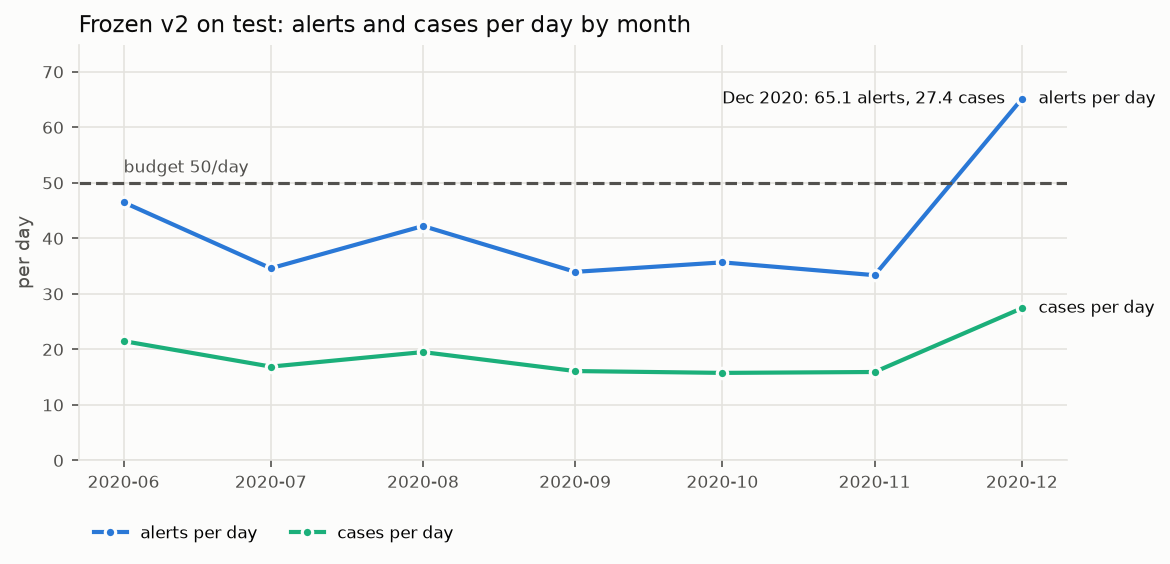
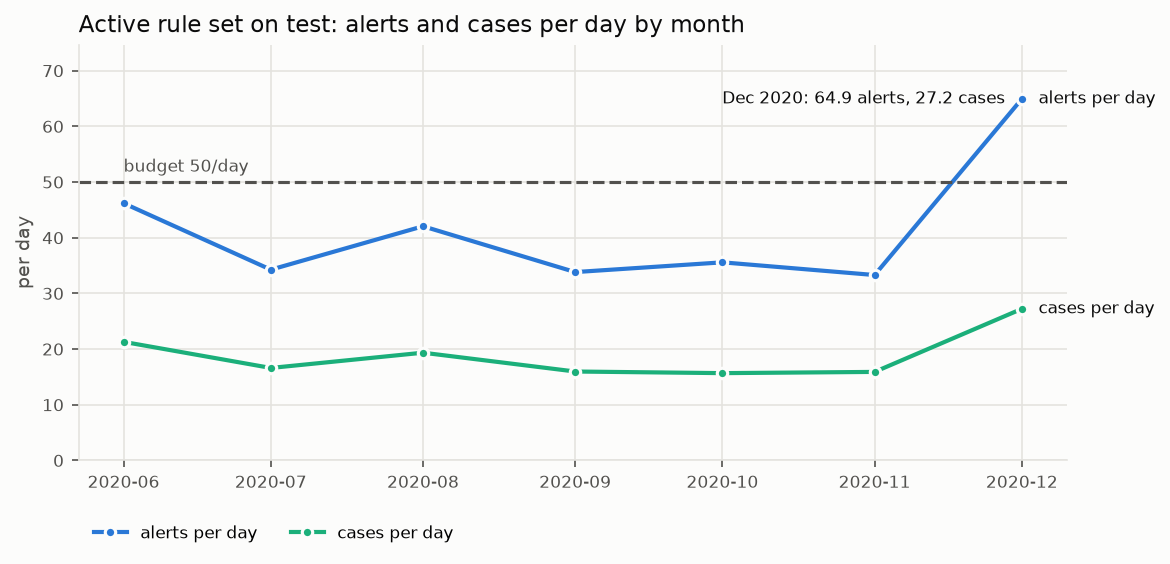
Move R6 to shadow (rule set v2.1)

diff --git a/src/make_figures.py b/src/make_figures.py
@@ -250,7 +250,7 @@ def pvt_rule_comparison():
                 handles.append(h)
                 labels.append(l)
     fig.legend(handles, labels, loc="upper right", ncol=3)
-    fig.suptitle("Frozen v2 rules: train vs test", x=0.01, ha="left", color=TEXT, fontsize=12)
+    fig.suptitle("Active rule set: train vs test", x=0.01, ha="left", color=TEXT, fontsize=12)
     fig.tight_layout(rect=(0, 0, 1, 0.9))
     save(fig, "pvt_train_vs_test.png")
 
@@ -260,10 +260,10 @@ def main():
     r4_by_category()
     r5_precision()
     candidate_sets()
-    monthly_budget("train", "v2 active rule set on train: alerts and cases per day by month", "tuning_monthly_alerts_train.png")
+    monthly_budget("train", "Active rule set on train: alerts and cases per day by month", "tuning_monthly_alerts_train.png")
     if (OUTPUT_DIR / "pvt" / "pvt_rule_comparison.csv").exists():
         pvt_rule_comparison()
-        monthly_budget("test", "Frozen v2 on test: alerts and cases per day by month", "pvt_monthly_alerts_test.png")
+        monthly_budget("test", "Active rule set on test: alerts and cases per day by month", "pvt_monthly_alerts_test.png")
 
 
 if __name__ == "__main__":

diff --git a/reports/rule_register.md b/reports/rule_register.md
@@ -8,21 +8,28 @@ is in [CHANGELOG.md](../CHANGELOG.md).
   (2020-06-21 to 2020-12-31, 194 days, 2,145 fraud), frozen set `rules-v2`; see
   [pvt_report.md](pvt_report.md).
 - **Tuning evidence:** in [tuning_report.md](tuning_report.md).
-- **Owner:** the project author. Approval: [TBD] (maker/checker sign-off in Phase 4).
+- **Owner:** the project author (maker).
+- **Approvals:**
+  - Rule sets v1 and v2: self-reviewed (before the review process).
+  - Rule set v2.1 and later: checker is "self-review against the PR checklist, with required CI checks; solo project".
 
-**Rule set v2:** approved and frozen on 2026-11-17. The previous rule set (R1 to R7 at
-v1.0/v1.1, before tuning) can be reproduced from git tag `rules-v1.1`.
+**Current rule set: v2.1** (2026-11-17, branch `change/r6-shadow`). Change from v2: R6
+status active to shadow; R6 logic unchanged at 2.0. Change request:
+`.github/pull_request_template.md` format, approval as above.
+- **Rule set v2:** approved and frozen on 2026-11-17 (git tag `rules-v2`); validated on the
+  test period.
+- **Rule set v1.1:** before tuning; can be reproduced from git tag `rules-v1.1`.
 
-| Rule | Frozen version (set v2) | Status |
-|---|---|---|
-| R1 | 1.1 | retired |
-| R2 | 1.0 | retired |
-| R3 | 2.0 | active |
-| R4 | 2.0 | active |
-| R5 | 1.0 | retired |
-| R6 | 2.0 | active |
-| R7 | 2.0 | active |
-| R8 | 1.0 (risk list v1) | shadow |
+| Rule | Version | Status in v2 | Status in v2.1 |
+|---|---|---|---|
+| R1 | 1.1 | retired | retired |
+| R2 | 1.0 | retired | retired |
+| R3 | 2.0 | active | active |
+| R4 | 2.0 | active | active |
+| R5 | 1.0 | retired | retired |
+| R6 | 2.0 | active | **shadow** |
+| R7 | 2.0 | active | active |
+| R8 | 1.0 (risk list v1) | shadow | shadow |
 
 ## Summary (train)
 
@@ -33,10 +40,11 @@ v1.0/v1.1, before tuning) can be reproduced from git tag `rules-v1.1`.
 | R3 | 2.0 | Active | HOLD_CONFIRM | 8.78 | 63.37% | 39.82% | 68.38% | 16 | UAT-R3-01 to 08 |
 | R4 | 2.0 | Active | ALERT | 20.76 | 46.70% | 69.37% | 93.31% | 1,213 | UAT-R4-01 to 08 |
 | R5 | 1.0 | Retired | ALERT | 563.97 | 0.58% | 23.27% | 23.60% | 271 | UAT-R5-01 to 03 |
-| R6 | 2.0 | Active | STEP_UP | 6.09 | 42.21% | 18.40% | 32.37% | 0 | UAT-R6-01 to 05 |
+| R6 | 2.0 | Shadow (v2.1) | STEP_UP | 6.09 | 42.21% | 18.40% | 32.37% | 0 | UAT-R6-01 to 05 |
 | R7 | 2.0 | Active | HOLD_CONFIRM | 23.60 | 33.01% | 55.74% | 63.91% | 1,093 | UAT-R7-01 to 10 |
 | R8 | 1.0 | Shadow | BLOCK / HOLD_CONFIRM by tier | not scored on train (in-sample) | | | | | UAT-R8-01 to 04 |
 | Active set | v2 | | | 37.80 | 31.40% | 84.92% | 98.04% | | |
+| Active set | v2.1 (R3, R4, R7) | | | 37.36 | 31.77% | 84.92% | 98.04% | | |
 
 - **Unique fraud:** for an active rule, fraud no other active rule catches. For a retired
   rule, fraud it would add if reinstated.
@@ -49,17 +57,18 @@ v1.0/v1.1, before tuning) can be reproduced from git tag `rules-v1.1`.
 |---|---|---|---|---|---|---|
 | R3 | Active | 8.21 | 53.77% (53.51%) | 39.91% | 68.95% | Pass |
 | R4 | Active | 20.49 | 36.83% (36.83%) | 68.25% | 93.13% | Pass |
-| R6 | Active | 2.10 | 37.10% (32.71%) | 7.04% | 12.70% | Fail on purpose: sets first response for 0 of 215 cards; shadow recommended |
+| R6 | Active in v2; shadow in v2.1 | 2.10 | 37.10% (32.71%) | 7.04% | 12.70% | Fail on purpose: sets first response for 0 of 215 cards; moved to shadow in v2.1 |
 | R7 | Active | 26.55 | 23.18% (24.70%) | 55.66% | 64.35% | Pass, watch genuine alert rate |
 | R8 | Shadow | 31.66 | 1.12% | 3.22% | 5.97% | Do not promote |
-| Active set | | 41.20 (18.78 cases) | 22.21% (23.35%) | 82.75% | 97.41% | Pass |
+| Active set v2 | | 41.20 (18.78 cases) | 22.21% (23.35%) | 82.75% | 97.41% | Pass |
+| Active set v2.1 | | 41.02 (18.63 cases) | 22.30% | 82.75% | 97.41% | Impact estimate, not out-of-sample validation |
 
 "Expected from base rate" is the precision the rule would show on test if it kept its train
 recall and its train genuine alert rate (test fraud rate 0.386% against 0.579%).
 
 ## R1 Card velocity: retired
 - **Version:** 1.1 (status retired in rule set v2, 2026-11-17)
-- **Status / owner / date:** retired 2026-11-17 (rule set v2). Owner: project author (maker). Approved by: [TBD] (checker).
+- **Status / owner / date:** retired 2026-11-17 (rule set v2). Owner: project author (maker). Approved by: self-reviewed (before the review process), rule set v2.
 - **UAT cases:** UAT-R1-01 to R1-08.
 - **Performance, train:** 1.11 alerts/day, 21.61% precision, 1.72% recall, 2.11% value detection.
 - **Performance, test (PVT):** 1.95 alerts/day, 7.41% precision, 1.31% recall, 1.75% value detection (monitoring only).
@@ -85,7 +94,7 @@ recall and its train genuine alert rate (test fraud rate 0.386% against 0.579%).
 
 ## R2 Amount spike: retired
 - **Version:** 1.0 (status retired in rule set v2)
-- **Status / owner / date:** retired 2026-11-17 (rule set v2). Owner: project author (maker). Approved by: [TBD] (checker).
+- **Status / owner / date:** retired 2026-11-17 (rule set v2). Owner: project author (maker). Approved by: self-reviewed (before the review process), rule set v2.
 - **UAT cases:** UAT-R2-01 to R2-04.
 - **Performance, train:** 51.91 alerts/day, 9.36% precision, 34.75% recall, 55.73% value detection.
 - **Performance, test (PVT):** 58.11 alerts/day, 6.74% precision, 35.43% recall, 57.56% value detection (monitoring only).
@@ -102,7 +111,7 @@ recall and its train genuine alert rate (test fraud rate 0.386% against 0.579%).
 
 ## R3 Late-night high value: active
 - **Version:** 2.0 (2026-11-17)
-- **Status / owner / date:** active since 2026-11-17 (rule set v2). Owner: project author (maker). Approved by: [TBD] (checker).
+- **Status / owner / date:** active since 2026-11-17 (rule set v2). Owner: project author (maker). Approved by: self-reviewed (before the review process), rule set v2.
 - **UAT cases:** UAT-R3-01 to R3-08.
 - **Performance, train:** 8.78 alerts/day, 63.37% precision, 39.82% recall, 68.38% value detection.
 - **Performance, test (PVT):** 8.21 alerts/day, 53.77% precision (53.51% expected from base rate), 39.91% recall, 68.95% value detection.
@@ -125,7 +134,7 @@ recall and its train genuine alert rate (test fraud rate 0.386% against 0.579%).
 
 ## R4 Risky category + amount: active
 - **Version:** 2.0 (2026-11-17)
-- **Status / owner / date:** active since 2026-11-17 (rule set v2). Owner: project author (maker). Approved by: [TBD] (checker).
+- **Status / owner / date:** active since 2026-11-17 (rule set v2). Owner: project author (maker). Approved by: self-reviewed (before the review process), rule set v2.
 - **UAT cases:** UAT-R4-01 to R4-08.
 - **Performance, train:** 20.76 alerts/day, 46.70% precision, 69.37% recall, 93.31% value detection.
 - **Performance, test (PVT):** 20.49 alerts/day, 36.83% precision (36.83% expected), 68.25% recall, 93.13% value detection.
@@ -146,7 +155,7 @@ recall and its train genuine alert rate (test fraud rate 0.386% against 0.579%).
 
 ## R5 Distance anomaly: retired
 - **Version:** 1.0 (status retired in rule set v2)
-- **Status / owner / date:** retired 2026-11-17 (rule set v2). Owner: project author (maker). Approved by: [TBD] (checker).
+- **Status / owner / date:** retired 2026-11-17 (rule set v2). Owner: project author (maker). Approved by: self-reviewed (before the review process), rule set v2.
 - **UAT cases:** UAT-R5-01 to R5-03.
 - **Performance, train:** 563.97 alerts/day, 0.58% precision, 23.27% recall, 23.60% value detection.
 - **Performance, test (PVT):** 669.22 alerts/day, 0.38% precision, 23.08% recall, 21.89% value detection (monitoring only).
@@ -161,9 +170,9 @@ recall and its train genuine alert rate (test fraud rate 0.386% against 0.579%).
   - Net benefit is -$572,954.10 at its v1 setting.
 - **Fields:** lat, long, merch_lat, merch_long (cardholder location is sensitive).
 
-## R6 New merchant + high amount: active
+## R6 New merchant + high amount: shadow
 - **Version:** 2.0 (2026-11-17)
-- **Status / owner / date:** active since 2026-11-17 (rule set v2); change request to shadow drafted (v2.1). Owner: project author (maker). Approved by: [TBD] (checker).
+- **Status / owner / date:** shadow since 2026-11-17 (rule set v2.1; active in v2). Owner: project author (maker). v2 approved by: self-reviewed (before the review process), rule set v2. v2.1 status change checker: self-review against the PR checklist, with required CI checks; solo project.
 - **UAT cases:** UAT-R6-01 to R6-05.
 - **Performance, train:** 6.09 alerts/day, 42.21% precision, 18.40% recall, 32.37% value detection; last 3 months of train only: 2.84 alerts/day, 9.54% recall (warm-up effect).
 - **Performance, test (PVT):** 2.10 alerts/day, 37.10% precision (32.71% expected), 7.04% recall, 12.70% value detection.
@@ -188,16 +197,25 @@ recall and its train genuine alert rate (test fraud rate 0.386% against 0.579%).
   - It also fires on the first alerted fraud for 129 cards (17.09%), but that is co-firing:
     another active rule fired on the same transaction every time. It is not counted as
     R6's contribution.
-  - It is the first candidate for shadow at the next review.
+  - **v2.1 (2026-11-17): moved to shadow.**
+    - In PVT it set the first response for 0 of 215 detected cards, so both conditions of
+      the approved rule are met (0 fraud lost; 0.00% of first responses).
+    - On train, its v2 figures were partly a warm-up artifact (9.54% recall in the last 3
+      months of train).
+    - Impact of the change: active set 37.80 to 37.36 alerts per day and 17.21 to 16.79
+      cases per day on train, with 0 fraud lost. Test figures for v2.1 are an impact
+      estimate, not out-of-sample validation.
+    - R6 is still computed and measured as a shadow rule.
 - **Fields:** card_id, merchant, ts, trans_num, amt.
 - **Known gap:** a card's first-ever transaction can't fire (UAT-R6-05).
 - **Version history:**
   - **1.0:** Y = 300.
   - **2.0:** Y = 750.
+  - **Rule set v2.1:** status active to shadow; logic unchanged at 2.0.
 
 ## R7 Spend burst: active
 - **Version:** 2.0 (2026-11-17)
-- **Status / owner / date:** active since 2026-11-17 (rule set v2; watch genuine alert rate). Owner: project author (maker). Approved by: [TBD] (checker).
+- **Status / owner / date:** active since 2026-11-17 (rule set v2; watch genuine alert rate). Owner: project author (maker). Approved by: self-reviewed (before the review process), rule set v2.
 - **UAT cases:** UAT-R7-01 to R7-10.
 - **Performance, train:** 23.60 alerts/day, 33.01% precision, 55.74% recall, 63.91% value detection.
 - **Performance, test (PVT):** 26.55 alerts/day, 23.18% precision (24.70% expected), 55.66% recall, 64.35% value detection.
@@ -226,7 +244,7 @@ recall and its train genuine alert rate (test fraud rate 0.386% against 0.579%).
 
 ## R8 Risk-list hit: shadow
 - **Version:** 1.0 (2026-11-17), list v1
-- **Status / owner / date:** shadow since 2026-11-17 (rule set v2); not promoted after PVT. Owner: project author (maker). Approved by: [TBD] (checker).
+- **Status / owner / date:** shadow since 2026-11-17 (rule set v2); not promoted after PVT. Owner: project author (maker). Approved by: self-reviewed (before the review process), rule set v2.
 - **UAT cases:** UAT-R8-01 to R8-04.
 - **Performance, train:** not scored on train (list built from train labels; in-sample).
 - **Performance, test (PVT):** 31.66 alerts/day, 1.12% precision, 3.22% recall, 5.97% value detection, 0 unique fraud (shadow).

diff --git a/README.md b/README.md
@@ -10,7 +10,9 @@ TxnPulse runs on simulated card data and covers the work of a bank's fraud rules
 It is a rules-first project: every alert comes from a readable IF-ELSE rule with a version,
 an owner, a test suite and a documented reason for its threshold.
 
-Rule set v2 is frozen at git tag `rules-v2`. The previous set is at `rules-v1.1`.
+The current rule set is v2.1: rule set v2 with R6 moved to shadow after validation. Rule
+set v2 is frozen at git tag `rules-v2` and is the version validated on the test period. The
+pre-tuning set is at `rules-v1.1`.
 
 ## 1. Problem
 A fraud operations team can only review a limited number of alerts a day. Rules that catch
@@ -54,14 +56,14 @@ All rules read one table, `txn`, and write one boolean column each to `flags`
 - Baselines exclude the current transaction (R2) or the current day (R7).
 - Same-second transactions are taken in `(ts, trans_num)` order.
 
-| ID | Version | Status | Logic (v2) | Action |
+| ID | Version | Status (set v2.1) | Logic | Action |
 |---|---|---|---|---|
 | R1 | 1.1 | Retired | 5 or more transactions on the card in 60 minutes | ALERT |
 | R2 | 1.0 | Retired | amt > 5 x average of the previous 30 transactions | STEP_UP |
 | R3 | 2.0 | Active | Hour 22:00-03:59 and amt > 600 | HOLD_CONFIRM |
 | R4 | 2.0 | Active | amt > 600 in shopping_net, misc_net, shopping_pos; amt > 250 in grocery_pos | ALERT |
 | R5 | 1.0 | Retired | Cardholder-to-merchant distance > 100 km | ALERT |
-| R6 | 2.0 | Active | First visit to the merchant, 10 or more prior transactions, amt > 750 | STEP_UP |
+| R6 | 2.0 | Shadow (active in v2) | First visit to the merchant, 10 or more prior transactions, amt > 750 | STEP_UP |
 | R7 | 2.0 | Active | 7 or more prior active days and 48-hour spend > 5 x two days of average daily spend | HOLD_CONFIRM |
 | R8 | 1.0 | Shadow | Merchant on risk list v1 (built from train only); scored on test only | BLOCK / HOLD_CONFIRM by tier |
 
@@ -130,7 +132,8 @@ The frozen v2 set was tagged, then run once on the test period with no changes.
 - **R6 decayed.** It relies on first visits to a merchant, which fall from 94.16% of
   transactions in January 2019 to 7.17% in December 2020, as cards build history. Its train
   numbers were partly a warm-up artifact: on the last 3 months of train it already showed
-  9.54% recall, against 7.04% on test. A change request to move it to shadow is drafted.
+  9.54% recall, against 7.04% on test. It was moved to shadow in rule set v2.1 through
+  the pull request process.
 - **R8 is not promoted:** 1.12% precision at 31.66 alerts per day, and 0 fraud that the
   active rules miss.
 - **16 cards appear only in the test period** and carry no history. All 16 were detected,
@@ -138,7 +141,7 @@ The frozen v2 set was tagged, then run once on the test period with no changes.
 
 Report: [reports/pvt_report.md](reports/pvt_report.md).
 
-## 7. Results (active set: R3, R4, R6, R7)
+## 7. Results (rule set v2, active rules R3, R4, R6, R7)
 
 | Metric | Train (tuned on) | Test (frozen, unseen) |
 |---|---|---|
@@ -162,7 +165,17 @@ detection.
 (2020), because transaction volume doubles. They stay under it in cases (32.42 and 27.42
 per day). This is treated as a peak-staffing finding, not a reason to change thresholds.
 
-![Train vs test](reports/figures/pvt_train_vs_test.png)
+**Rule set v2.1 (R6 in shadow):**
+
+| | Alerts per day | Cases per day | Precision | Recall | Value detection |
+|---|---|---|---|---|---|
+| Train | 37.36 | 16.79 | 31.77% | 84.92% | 98.04% |
+| Test | 41.02 | 18.63 | 22.30% | 82.75% | 97.41% |
+
+The test figures for v2.1 are an impact estimate, not out-of-sample validation. The change
+was decided after seeing the test period.
+
+![Train vs test, rule set v2](reports/figures/pvt_train_vs_test_v2.png)
 
 ## 8. Limitations
 - **Simulated data.** Fraud sits in narrow category, hour and amount bands, and its shape

diff --git a/reports/pvt_report.md b/reports/pvt_report.md
@@ -5,7 +5,7 @@
 | Rules | Frozen rule set v2, git tag `rules-v2`. Run unchanged; no threshold was changed after this run. |
 | Test period | fraudTest.csv: 2020-06-21 12:14:25 to 2020-12-31 23:59:34, 194 days, 555,719 transactions, 2,145 fraud (0.386%), $1,133,324.68 of fraud |
 | Training history | Training rows are loaded as unscored history, so card windows continue across the split. Only test rows count in any metric. |
-| Sources | `outputs/test/` from `src/run_rules.py --period test`; `outputs/pvt/pvt_rule_comparison.csv` from `src/compare_pvt.py`; charts from `src/make_figures.py` |
+| Sources | `outputs/test/` from `src/run_rules.py --period test`; `outputs/pvt/pvt_rule_comparison.csv` from `src/compare_pvt.py`; charts from `src/make_figures.py`. The v2 comparison table and charts are kept in `reports/pvt_evidence/pvt_rule_comparison_v2.csv` and `reports/figures/pvt_*_v2.png`, because `run_all.py` now regenerates outputs for the current rule set (v2.1). |
 
 ## 1. Verdict
 
@@ -46,7 +46,7 @@
 
 Where a rule is unchanged, the train and test points overlap in the chart below.
 
-![Train vs test](figures/pvt_train_vs_test.png)
+![Train vs test](figures/pvt_train_vs_test_v2.png)
 
 ## 3. Why precision fell: the base rate
 - **Fraud is rarer in test:** 0.386% of transactions against 0.579% in train.
@@ -100,7 +100,7 @@ Monthly figures are in `monthly_active.csv`:
 - **July 2020 has the lowest recall (75.39%).** It is the one month that would justify a
   closer look in monitoring (Phase 7).
 
-![Monthly alerts on test](figures/pvt_monthly_alerts_test.png)
+![Monthly alerts on test](figures/pvt_monthly_alerts_test_v2.png)
 
 ## 5. R6: why it decayed
 R6 fires on a card's first transaction at a merchant. In test, cards carry about 18 months
@@ -231,8 +231,9 @@ these findings: R6 to shadow (proposed v2.1), or anything else prompted by secti
 
 ## 11. Actions
 1. Keep R3, R4 and R7 active unchanged. Watch R7's genuine alert rate in monitoring.
-2. Raise a change request to move R6 to shadow at the next review (evidence in section 5).
-   Its test-period figures will be an impact estimate (section 9).
+2. **Done:** R6 moved to shadow in rule set v2.1 (2026-11-17, see CHANGELOG). Its
+   test-period figures are an impact estimate (section 9): active set 41.02 alerts and
+   18.63 cases per day, precision 22.30%, recall 82.75%, value detection 97.41%.
 3. Do not promote R8. Rebuild or drop the merchant list at the next review.
 4. Plan December peak staffing: about 1.3 analysts on alerts, or one analyst working cases.
 5. Add July-style recall dips to the monitoring checks in Phase 7.

diff --git a/CHANGELOG.md b/CHANGELOG.md
@@ -9,6 +9,50 @@ Versioning:
   the rule version. For example, R1, R2 and R5 kept their versions when they were retired
   in set v2.
 
+## 2026-11-17: rule set v2.1 (R6 to shadow)
+
+The first change through the pull request process. The PR description is kept with the
+project notes.
+
+### Rules
+- **R6:** status active to shadow. Logic unchanged at version 2.0. All other rules are
+  unchanged.
+- **Reason:** PVT on v2 showed R6 set the first response for 0 of 215 detected cards and
+  lost 0 fraud if removed. That meets the pre-agreed shadow rule. Its train figures were
+  partly a warm-up artifact (9.54% recall in the last 3 months of train, against 18.40%
+  overall).
+
+### Impact
+| | v2 | v2.1 |
+|---|---|---|
+| Train: alerts per day | 37.80 | 37.36 |
+| Train: cases per day | 17.21 | 16.79 |
+| Train: precision | 31.40% | 31.77% |
+| Train: recall | 84.92% | 84.92% |
+| Train: value detection | 98.04% | 98.04% |
+| Test (impact estimate, not out-of-sample validation): alerts per day | 41.20 | 41.02 |
+| Test: cases per day | 18.78 | 18.63 |
+| Test: precision | 22.21% | 22.30% |
+| Test: recall | 82.75% | 82.75% |
+| Test: value detection | 97.41% | 97.41% |
+
+- **Customer-facing STEP_UP actions go to 0.** 699 train alerts (38 on test) that R4 also
+  raises become post-event ALERT reviews. That includes 52 train frauds ($47,138.14) and
+  1 test fraud ($850.57).
+- **Rollback was tested:** with R6 set back to active, the active set returned to 20,300
+  train alerts and 7,992 test alerts.
+
+### Approvals
+- Rule set v2.1 checker: self-review against the PR checklist, with required CI checks;
+  solo project.
+- Rule sets v1 and v2: self-reviewed (before the review process).
+
+### Reports
+- The v2 PVT evidence is kept fixed: `reports/pvt_evidence/pvt_rule_comparison_v2.csv`,
+  `reports/figures/pvt_*_v2.png` and `reports/figures/tuning_monthly_alerts_train_v2.png`.
+- The unsuffixed charts are redrawn by `run_all.py` for the current rule set. Their titles
+  no longer name a version.
+
 ## 2026-11-17: documentation and governance (rule set unchanged, still v2)
 
 ### Governance

diff --git a/reports/uat_report.md b/reports/uat_report.md
@@ -156,5 +156,6 @@ Evidence:
 
 | Role | Name | Date | Decision |
 |---|---|---|---|
-| Maker (rule author) | [TBD] | [TBD] | |
-| Checker (reviewer) | [TBD] | [TBD] | |
+| Maker (rule author) | Project author | 2026-11-17 | Rule sets v1 and v2 |
+| Checker (reviewer) | Self-reviewed (before the review process) | 2026-11-17 | Rule sets v1 and v2 |
+| Checker for v2.1 | Self-review against the PR checklist, with required CI checks; solo project | 2026-11-17 | v2.1 is a status change only (R6 to shadow). No logic changed, so no UAT case changed; 50 of 50 pass. |

diff --git a/reports/tuning_report.md b/reports/tuning_report.md
@@ -66,7 +66,7 @@ For scale (derived from the figures above):
   - This is treated as seasonality. It is planned for with peak staffing (about 1.5 analysts
     for December on alerts, or one analyst working cases), not by raising thresholds.
 
-![Monthly alerts on train](figures/tuning_monthly_alerts_train.png)
+![Monthly alerts on train](figures/tuning_monthly_alerts_train_v2.png)
 
 ## 3. Per-rule tuning
 Each sweep scores every combination in its grid on train. The v1 setting is always part of
